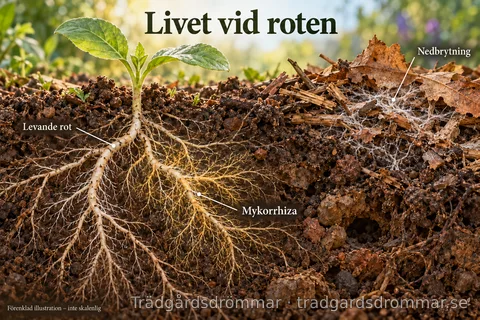
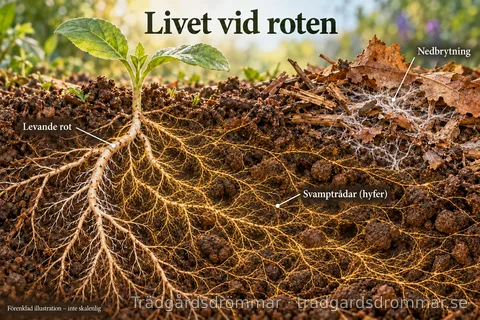
Förtydliga kväve, mykorrhiza och jordstruktur samt revidera rotillustrationen

diff --git a/src/content/methods/jordens-sma-arbetare.md b/src/content/methods/jordens-sma-arbetare.md
@@ -7,6 +7,10 @@
   "tags": ["jord", "markliv", "mykorrhiza"],
   "reviewed": "2026-10-22",
   "sources": [
+    {"title": "Jiang med flera – Mykorrhizasvampar och bakterier frigör organiskt bunden fosfor", "url": "https://nph.onlinelibrary.wiley.com/doi/10.1111/nph.17081"},
+    {"title": "Kobae med flera – Fosfattillförsel och bildning av mykorrhiza", "url": "https://pubmed.ncbi.nlm.nih.gov/26979330/"},
+    {"title": "Totsche med flera – Microaggregates in soils", "url": "https://onlinelibrary.wiley.com/doi/full/10.1002/jpln.201600451"},
+    {"title": "Oregon State University – Improving garden soils with organic matter", "url": "https://extension.oregonstate.edu/catalog/ec-1561-improving-garden-soils-organic-matter"},
     {"title": "USDA NRCS – Soil Biology, version 2.3", "url": "https://www.nrcs.usda.gov/sites/default/files/2023-06/Soil%20Biology%202.3.pdf"},
     {"title": "Colorado State University Extension – The Living Soil", "url": "https://extension.colostate.edu/resource/the-living-soil/"},
     {"title": "SLU – Inventering av mykorrhiza i potatisförsök", "url": "https://pub.epsilon.slu.se/8549/1/ohlsson_et_al_120117.pdf"},
@@ -19,7 +23,7 @@
     {"label": "Täckodling genom året", "href": "/odlingsmetoder/tackodling-genom-aret/"}
   ],
   "image": "jordliv-rot-mykorrhiza",
-  "imageAlt": "Illustration av en levande rot med mykorrhiza och separat nedbrytning av döda växtrester."
+  "imageAlt": "Illustration av en levande rot med fina svamptrådar som når ut i en större jordvolym, och separat nedbrytning av döda växtrester."
 }
 ---
 
@@ -43,17 +47,23 @@ Olika växter skapar olika förutsättningar för marklivet. En varierad odling 
 
 ## Mykorrhiza – ett samarbete med rötterna
 
-Vissa svampar bildar **mykorrhiza** tillsammans med växtrötter. Svamptrådarna, hyferna, kan nå ut i jordens små hålrum och utforska en större jordvolym än rötterna ensamma. Växten kan därigenom få bättre tillgång till framför allt fosfor. Svampen får i gengäld organiskt kol från växtens fotosyntes, bland annat i form av socker.
+Vissa svampar bildar **mykorrhiza** tillsammans med växtrötter. Svamptrådarna, hyferna, är mycket tunnare än rötterna och kan nå ut i små hålrum långt utanför området närmast roten. På så sätt får växten hjälp att nå näring i en större jordvolym. Svampen får i gengäld organiskt kol från växtens fotosyntes, bland annat i form av socker.
+
+Det är särskilt värdefullt för upptaget av **fosfor**, som rör sig långsamt i jorden. Svamptrådarna kan nå fosfor som rötterna själva inte kommer åt. Tillsammans med andra mikroorganismer kan svamparna också bidra till att frigöra fosfor ur former som växten har svårt att utnyttja. Hur det går till varierar mellan olika slags mykorrhiza.
 
 Det är alltså skillnad mellan en svamp som bryter ned dött växtmaterial och en svamp som samarbetar med en levande rot. **Allt vitt mycel under täcket är inte mykorrhiza.** Utseendet räcker inte för att avgöra vilket samspel som pågår.
 
-Samarbetet finns hos många växter, men inte hos alla. Nyttan varierar med växt, svamp och odlingsförhållanden. God tillgång till fosfor kan minska mykorrhizabildningen. Mer gödsel betyder därför inte automatiskt ett starkare samarbete, och mykorrhiza ersätter inte behovet av att förstå jordens näringstillgång.
+Samarbetet finns hos många växter, men inte hos alla. Nyttan varierar med växt, svamp och odlingsförhållanden. **Höga nivåer av lättillgänglig fosfor kan minska bildningen av mykorrhiza.** Det betyder inte att växterna ska få för lite näring, utan att mer fosfor inte alltid behövs.
+
+**Dålig tillväxt betyder inte automatiskt att jorden innehåller för lite näring.** Näringen kan finnas där utan att växten kommer åt den. Fosfor och mykorrhiza är ett exempel på att tillgången också beror på hur upptaget fungerar. Kall, blöt eller packad jord kan samtidigt göra det svårare för rötterna att arbeta. Titta därför på både rötternas miljö och näringstillgången innan du gödslar mer. Svag tillväxt är däremot inte i sig ett tecken på att mykorrhiza saknas.
 
 ## Livet hjälper till att bygga jordstruktur
 
-En rot söker sig genom jorden, en mask lämnar en gång och svamptrådar bidrar till att hålla samman små jordpartiklar. Mikroorganismernas ämnen hjälper också partiklar att bilda **aggregat**, små sammanhållna jordklumpar.
+En rot söker sig genom jorden och en mask lämnar en gång. Svamptrådar och ämnen som mikroorganismerna bildar hjälper också till att binda samman jordpartiklar till små **jordsmulor, som kallas aggregat**. De bidrar både till att smulorna bildas och till att de håller ihop. Det är värdefullt när jorden blir blöt: stabila jordsmulor faller inte lika lätt sönder, och hålrummen kan finnas kvar.
 
-Mellan aggregaten finns utrymme för luft, vatten och nya rötter. Här möts biologin och jordens fysiska egenskaper. Markpackning kan samtidigt göra det svårare för daggmaskarna att gräva, särskilt i fuktig jord. Marklivet kan hjälpa strukturen, men det är ingen anledning att fortsätta trampa på en blöt odlingsbädd.
+**Hålrum, eller porer, finns både inne i jordsmulorna och mellan dem.** Större sammanhängande porer ger plats för luft, vatten som rör sig genom jorden och rötter som växer vidare. Mindre porer håller kvar vatten, även om det allra hårdast bundna vattnet är svårt för växterna att ta upp. Jorden behöver en blandning av olika porstorlekar för att både kunna hålla vatten och släppa fram luft.
+
+Markpackning kan pressa ihop hålrummen och göra det svårare för både rötter och daggmaskar att ta sig fram, särskilt i fuktig jord. Marklivet kan hjälpa strukturen, men det är ingen anledning att fortsätta trampa på en blöt odlingsbädd.
 
 ## Hjälp samspelet i din egen bädd
 

diff --git a/docs/CHANGELOG.md b/docs/CHANGELOG.md
@@ -3,6 +3,16 @@
 **Omfattning:** ändringar av innehåll, kod, CMS, bilder, GitHub-workflows, OAuth, server, DNS, certifikat och publicering. Lägg en tydlig post per uppdrag/PR även när ändringen bara gäller innehåll. Granska samtidigt [PROJECT_RULES.md](PROJECT_RULES.md) och relevant dokumentation; uppdatera dem när beskrivningen eller reglerna påverkas.
 
 
+
+## 2026-10-22 – Förtydliga jordliv, täckodling och mykorrhiza
+- Godkänt: Micke bad efter faktagenomgång att samtliga sju granskningspunkter åtgärdas, med samma lättillgängliga språk som grundartiklarna. Begreppet aggregat ska användas som förklaring, inte dominera löptexten. Detta omfattar de uttryckligen granskade styckena i två tidigare fastlagda grundartiklar.
+- Genomfört i separat arbetsgren: `tackodling.md` förklarar att kväve tillfälligt binds i mikroorganismer och därför kan bli mindre tillgängligt för grödan, med skillnaden mellan yttäckning och nedblandning kvar. `biologisk-mangfald.md` ändrar ”utan insekter” till ”utan skadeinsekter”. `jordens-sma-arbetare.md` förklarar svamptrådarnas räckvidd, fosforupptag och samspel med andra mikroorganismer; preciserar höga nivåer av lättillgänglig fosfor; knyter svag tillväxt till näringsupptag och rotmiljö. Jordsmulor introduceras med fackordet aggregat i förklaringen; deras bildning, stabilitet och porer både inuti och mellan beskrivs sammanhängande. Källor och granskningsdatum uppdaterade.
+- Bild: `jordliv-rot-mykorrhiza` omarbetad med ett finare nät av hyfer som sträcker sig utanför roten och tydligare märkning. Alt-text och bildtext uppdaterade. Åtta vattenstämplade webbexporter genom befintlig `processImages`; PNG-original bevaras utanför repositoryt. `docs/images.md` uppdaterad.
+- Aktuell bas: main `5fda31f6`, där PR #21 är mergad. GitHub rapporterar lyckad Validate and build [39755690092](https://github.com/mooody/pjrepo/actions/runs/39755690092), Pages-preview [39755690096](https://github.com/mooody/pjrepo/actions/runs/39755690096) och separat produktionspublicering [39761647518](https://github.com/mooody/pjrepo/actions/runs/39761647518) för denna tidigare version. Ingen ny publicering görs genom detta uppdrag. Öppna dokumentations-PR:er #14 och #19 berör inte artikeländringarna och lämnas orörda.
+- Verifierat lokalt: `npm ci`, Astro-kontroll utan fel eller varningar, validering och byggning av 49 sidor samt alla 17 Node-tester godkända. Bildmotiv, svensk märkning och vattenstämpel kontrollerade visuellt. `git diff --check` godkänd. Lokala webbläsartester kan inte starta eftersom Playwrights Chromium saknas; fullständig `npm run verify` körs i PR:ens GitHub Actions och resultat följs före överlämning.
+- Dokumentation: aktuella `AGENTS.md` och `docs/PROJECT_RULES.md` lästa och granskade; reglerna är oförändrade. Drive-planeringen och befintlig serverdokumentation kontrollerade. Ingen ändring av CMS, schema, mallar, bildmetod, server eller publiceringsflöde.
+- Status: innehåll och bild genomförda för granskning i separat arbetsgren/PR. Ingen merge eller produktionspublicering ingår.
+
 ## 2026-10-22 – Visa fortsättningsartiklarna efter grundartiklarna
 - Bakgrund: PR #20 är mergad i `main` genom `85dbdbe0`; verifiering [39754323078](https://github.com/mooody/pjrepo/actions/runs/39754323078) och GitHub Pages-preview [39754323118](https://github.com/mooody/pjrepo/actions/runs/39754323118) är godkända. Artiklarna byggdes, men landningssidans fasta urval innehöll bara de tre äldre grundartiklarna.
 - Godkänt: Micke bad att de tre fortsättningarna ska läggas direkt efter de tre tidigare artiklarna under Livet i trädgården.

diff --git a/src/content/methods/tackodling.md b/src/content/methods/tackodling.md
@@ -8,8 +8,9 @@
     "jord",
     "odlingsmetoder"
   ],
-  "reviewed": "2026-10-21",
+  "reviewed": "2026-10-22",
   "sources": [
+    {"title": "University of Saskatchewan – Mulch and soil nitrogen", "url": "https://gardening.usask.ca/articles-and-lists/articles-healthysoils/mulch-and-soil-nitrogen.php"},
     {
       "title": "RHS – How to mulch with organic matter",
       "url": "https://www.rhs.org.uk/soil-composts-mulches/how-to-mulch-with-organic-matter"
@@ -47,7 +48,7 @@ Ett täcke kan minska avdunstningen, dämpa ogräs och skydda mot kraftiga tempe
 - **Löv:** ta vara på det som faller i trädgården. Om löven lägger sig som en tät matta kan du finfördela dem eller blanda med grövre material.
 - **Gräsklipp:** innehåller en del lättillgänglig näring. Lägg det i tunna lager så att det inte blir en kompakt, blöt massa.
 - **Häckklipp och andra växtrester:** varför köra bort allt när häcken är klippt? Lägg de friska växtdelarna på odlingsjorden. Grövre kvistar kan först köras genom en kompostkvarn. Mitt i sommaren kan det gröna materialet bli brunt på bara några dagar, men täcket fortsätter göra nytta.
-- **Halm:** ger ett luftigt täcke, men är **kvävefattigt i förhållande till sitt kolinnehåll**. Mikroorganismer kan därför behöva extra kväve när halmen bryts ned, särskilt om stora mängder blandas ned i jorden. Som täcke ovanpå marken är risken för kvävebrist hos grödan normalt mindre.
+- **Halm:** ger ett luftigt täcke, men innehåller mycket kol och lite kväve. När mikroorganismerna bryter ned halmen tar de också upp kväve från omgivningen. **Kvävet binds tillfälligt i deras kroppar och kan då bli mindre tillgängligt för växterna.** Risken är större om halmen blandas ned i jorden. Som täcke på ytan påverkar den normalt kvävetillgången vid rötterna mindre.
 
 Använd helst växtmaterial utan mogna ogräsfrön, svåra rotogräs eller tydliga sjukdomsangrepp. Träflis fungerar ofta bra på gångar och runt fleråriga planteringar, men stora mängder färsk flis behöver inte grävas ned i grönsakslandet.
 

diff --git a/docs/images.md b/docs/images.md
@@ -36,3 +36,10 @@ Två AI-genererade illustrationer har kopplats till fortsättningsartiklarna i P
 Bildfälten och samtliga exporter använder befintlig struktur. Varje bild har åtta WebP-varianter: tre full-, två kort-, två stående huvud- och en delningsvariant. Artiklarna använder fullformatet; de stående beskärningarna lämpar sig inte för att läsa hela den breda illustrationens märkning. Inga mallar eller formatregler har ändrats.
 
 De genererade PNG-originalen finns utanför repositoryt. Särskilda exportkopior har fått sin provisoriska inbyggda varumärkesmärkning borttagen för att undvika dubbel märkning; originalen bevaras. Den ordinarie exportfunktionen i `scripts/images.mjs` lägger därefter på webbplatsens befintliga vattenstämpel efter varje beskärning. Endast dessa metadatafria, vattenstämplade WebP-varianter lagras i repositoryt. Bildmanifestets publika `source` är tomt. Bild-ID:n, alt-texter och bildtexter följer befintligt CMS-schema; ingen ny uppladdningsväg eller bildhanteringsmetod har införts.
+
+
+## Förtydligad jordlivsillustration – 22 oktober 2026
+
+Efter Mickes granskning har `jordliv-rot-mykorrhiza` omarbetats: ett finare, förgrenat nät av svamptrådar visas över en större jordvolym utanför roten. Märkningen ”Svamptrådar (hyfer)” pekar på svamptrådarna i stället för en rot. Separat nedbrytning av dött material finns kvar. Färgerna är pedagogiska och bilden är inte skalenlig; detta framgår av bildtexten.
+
+Befintligt bild-ID och befintlig exportfunktion behålls. De åtta vattenstämplade WebP-varianterna ersätts, och manifestets alt-text samt bildtext uppdateras. Den nya genererade PNG-bilden och den tidigare versionen bevaras utanför repositoryt. Inga ändringar av CMS, bildschema, vattenstämpelinställningar eller exportmetod.

diff --git a/src/content/methods/biologisk-mangfald.md b/src/content/methods/biologisk-mangfald.md
@@ -8,7 +8,7 @@
     "pollinatörer",
     "trädgård"
   ],
-  "reviewed": "2026-10-21",
+  "reviewed": "2026-10-22",
   "sources": [
     {
       "title": "Naturvårdsverket – Hjälp våra vilda pollinatörer, för privatpersoner",
@@ -56,7 +56,7 @@ Välj arter som trivs på platsen, gärna inhemska och lokalt anpassade när det
 
 Nyckelpigor, blomflugelarver, guldögonsländelarver och andra rovdjur lever bland annat av bladlöss och andra smådjur som vi ibland betraktar som skadedjur. **Om vi slår ut varje litet angrepp tar vi samtidigt bort en del av nyttodjurens mat.**
 
-Med många olika livsmiljöer och naturliga fiender kan angrepp ofta hållas tillbaka. Men det är ingen garanti mot en plötslig ökning av skadegörare: nyttodjuren kan behöva tid för att hinna ikapp. **Fortsätt därför titta till plantorna och ingrip varsamt när det behövs.** Målet är en fungerande balans, inte en trädgård helt utan insekter.
+Med många olika livsmiljöer och naturliga fiender kan angrepp ofta hållas tillbaka. Men det är ingen garanti mot en plötslig ökning av skadegörare: nyttodjuren kan behöva tid för att hinna ikapp. **Fortsätt därför titta till plantorna och ingrip varsamt när det behövs.** Målet är en fungerande balans, inte en trädgård helt utan skadeinsekter.
 
 ## Mat är bara halva lösningen
 
